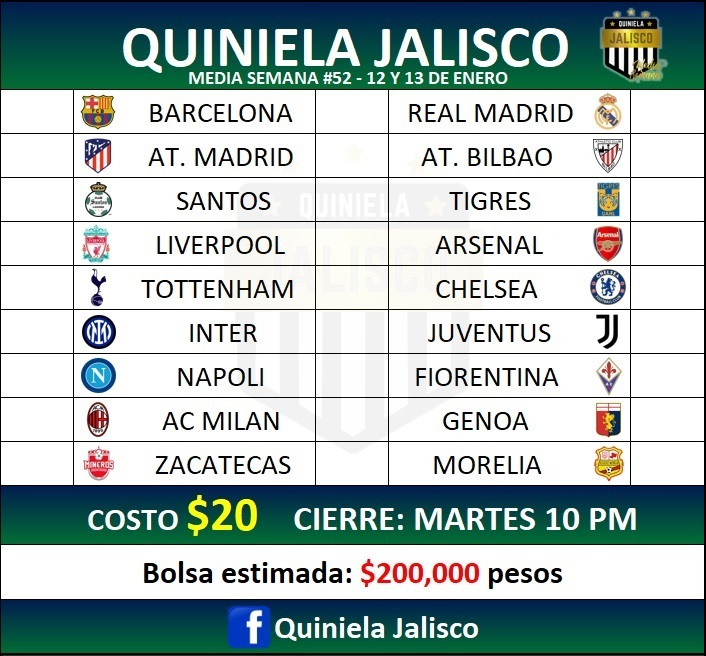
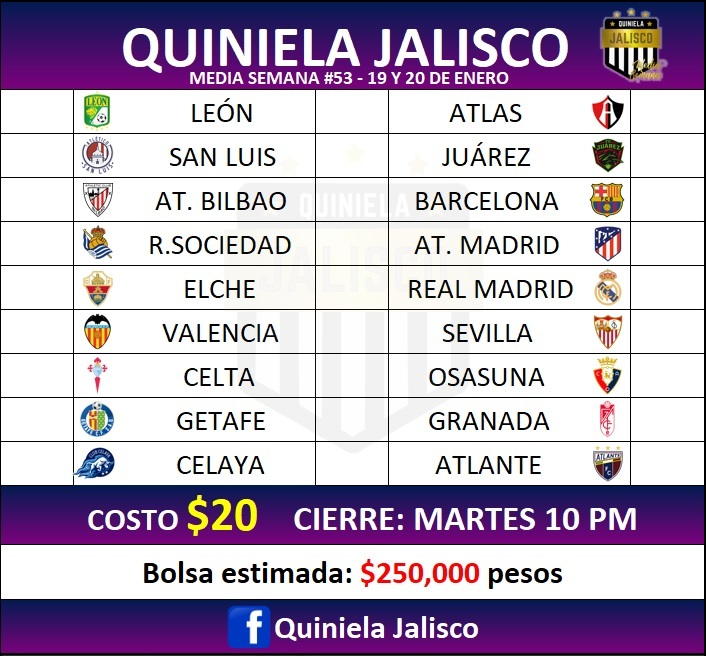
Media Semana #53

diff --git a/MediaSemana/stylesm.css b/MediaSemana/stylesm.css
@@ -89,8 +89,8 @@ h1{
     margin-top: 8%;
     border: solid 1px black;
     border-radius: 0 0 14px 14px;
-    background: -webkit-linear-gradient(0.5turn, rgb(14,123,68)  ,rgb(0,36,92) 80%);
-    background: linear-gradient(0.5turn, rgb(14,123,68)  ,rgb(0,36,92) 80%);
+    background: -webkit-linear-gradient(0.5turn, rgb(124,0,124)  ,rgb(6,25,81) 80%);
+    background: linear-gradient(0.5turn, rgb(124,0,124)  ,rgb(6,25,81) 80%);
     font-size: x-large;
     text-shadow: 3px 3px 3px black;
 }
